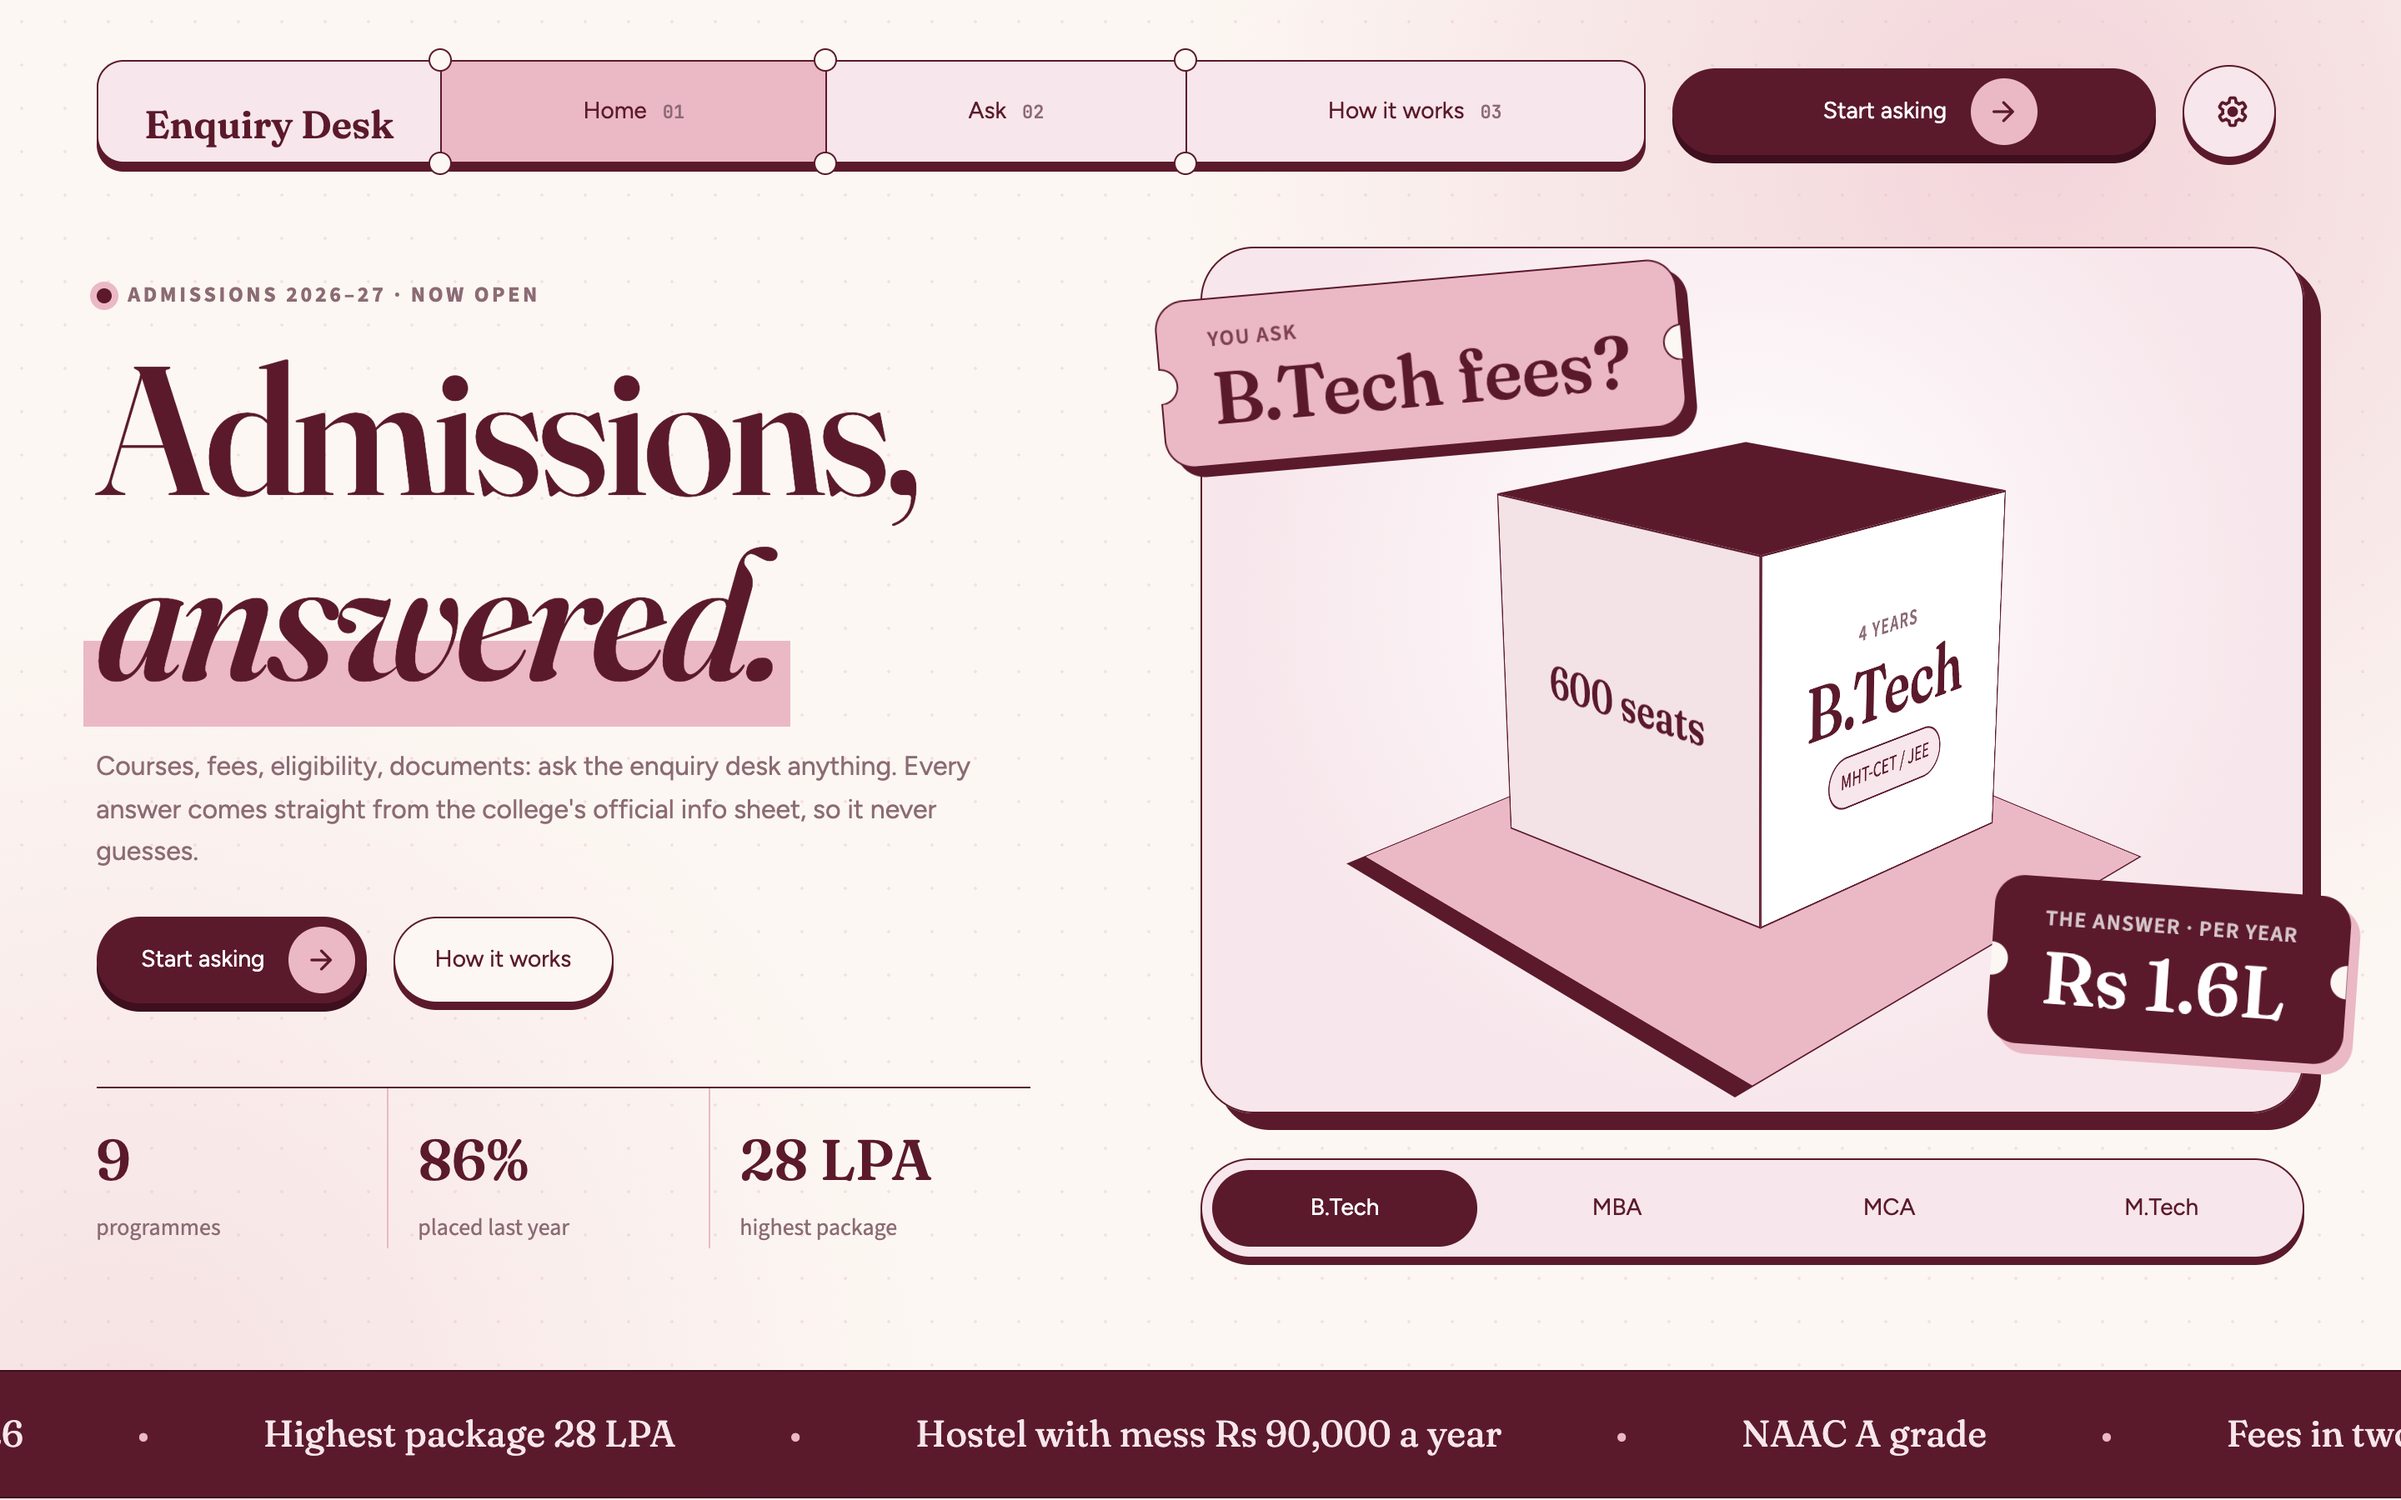
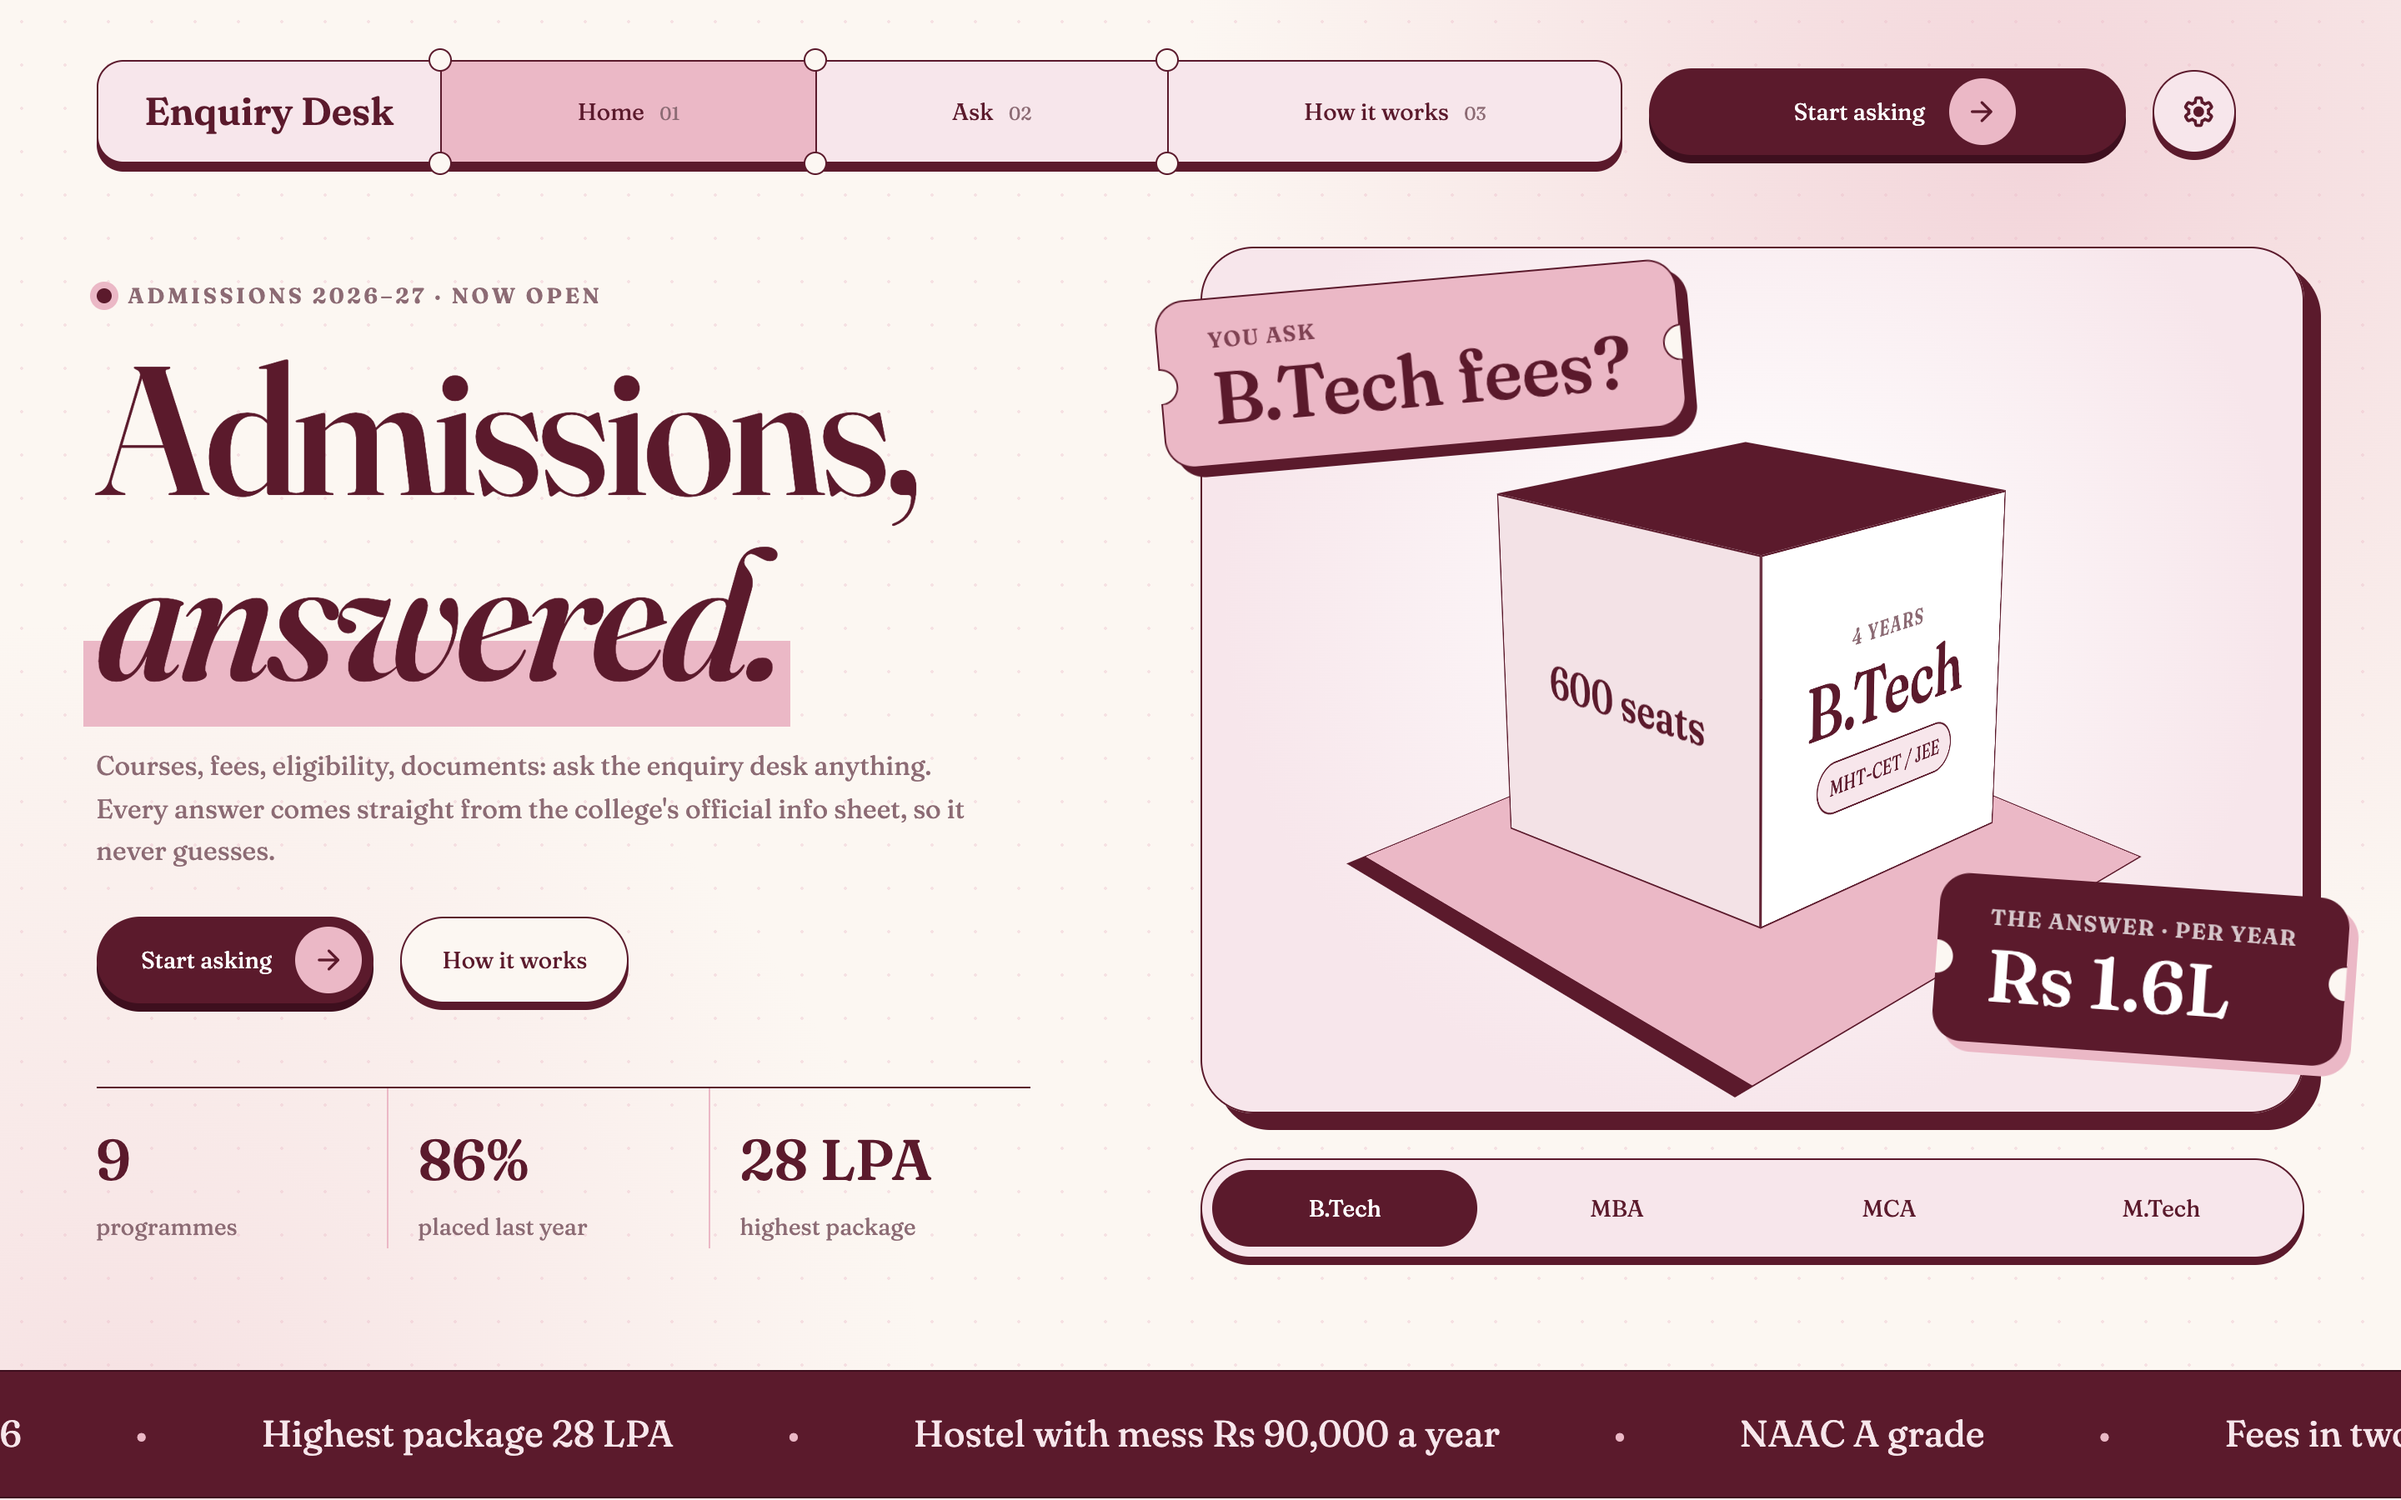
Works on phones and tablets; one serif font everywhere

diff --git a/style.css b/style.css
@@ -1,7 +1,7 @@
 /* College Enquiry Chatbot - page styling.
    Theme: dark wine + soft pink on a warm cream page, using the full browser width. */
 
-@import url('https://fonts.googleapis.com/css2?family=Fraunces:ital,opsz,wght@0,9..144,400..650;1,9..144,400..650&family=Figtree:wght@400;500;600;700&family=JetBrains+Mono:wght@500&display=swap');
+@import url('https://fonts.googleapis.com/css2?family=Fraunces:ital,opsz,wght@0,9..144,400..650;1,9..144,400..650&display=swap');
 
 /* ---------- 1. Colours, fonts, page ---------- */
 :root {
@@ -12,8 +12,8 @@
   --cream: #FCF7F2;
   --grey: #8C6B74;
   --serif: 'Fraunces', Georgia, serif;
-  --sans: 'Figtree', sans-serif;
-  --mono: 'JetBrains Mono', monospace;
+  --sans: 'Fraunces', Georgia, serif;   /* one font everywhere, the same as "Enquiry Desk" */
+  --mono: 'Fraunces', Georgia, serif;
 }
 
 .stApp {
@@ -26,7 +26,7 @@
 /* faint dotted grid behind everything */
 .stApp::before { content: ""; position: fixed; inset: 0; pointer-events: none; opacity: .35;
   background-image: radial-gradient(var(--pink) 1px, transparent 1px); background-size: 26px 26px; }
-.stApp p, .stApp li, .stApp button { font-family: var(--sans); }
+.stApp p, .stApp li, .stApp button, .stApp textarea, .stApp label, .stApp code { font-family: var(--sans) !important; }
 .block-container { max-width: none; padding: 20px 4vw 120px; }
 [data-testid="stHeader"], [data-testid="stToolbar"] { display: none; }
 h1, h2, h3 { font-family: var(--serif) !important; color: var(--wine); }
@@ -48,7 +48,11 @@ h1, h2, h3 { font-family: var(--serif) !important; color: var(--wine); }
   background: var(--cream); border: 1.5px solid var(--wine); z-index: 2; }
 .st-key-navbar > [data-testid="stElementContainer"]::before { top: -8px; }
 .st-key-navbar > [data-testid="stElementContainer"]::after { bottom: -8px; }
-.brand { font-family: var(--serif); font-size: 23px; font-weight: 600; padding: 0 28px; white-space: nowrap; }
+.brand { font-family: var(--serif); font-size: 23px; font-weight: 600; padding: 0 28px; white-space: nowrap; line-height: 60px; }
+/* centre every cell of the bar vertically so the brand lines up with the page names */
+.st-key-navbar > [data-testid="stElementContainer"] { display: flex; align-items: center; }
+.st-key-navbar [data-testid="stMarkdown"], .st-key-navbar [data-testid="stMarkdownContainer"],
+.st-key-navbar [data-testid="stMarkdownContainer"] > * { margin: 0 !important; }
 .st-key-navbar .stButton > button { min-height: 60px; border-radius: 0; border: none; box-shadow: none;
   background: transparent; color: var(--wine); font-size: 15.5px; font-weight: 600; padding: 0 24px; }
 .st-key-navbar .stButton > button:hover { background: rgba(235, 184, 198, .45); transform: none; box-shadow: none; }
@@ -84,7 +88,7 @@ h1, h2, h3 { font-family: var(--serif) !important; color: var(--wine); }
 
 /* gear: round button, no dropdown arrow */
 [data-testid="stPopover"] { display: flex; justify-content: flex-end; }
-[data-testid="stPopoverButton"] { width: 56px; height: 56px; padding: 0; border-radius: 50%; border: 1.5px solid var(--wine);
+[data-testid="stPopoverButton"] { width: 50px; height: 50px; padding: 0; border-radius: 50%; border: 1.5px solid var(--wine);
   background: var(--pink-soft); color: var(--wine); box-shadow: 0 4px 0 var(--wine); transition: transform .3s; }
 [data-testid="stPopoverButton"]:hover { transform: rotate(45deg); border-color: var(--wine); color: var(--wine); }
 [data-testid="stPopoverButton"] > div > div[aria-hidden="true"] { display: none; }
@@ -197,13 +201,84 @@ h1, h2, h3 { font-family: var(--serif) !important; color: var(--wine); }
 /* ---------- 9. Animation and small screens ---------- */
 @keyframes rise { from { opacity: 0; transform: translateY(14px); } to { opacity: 1; transform: none; } }
 
+/* tablets */
 @media (max-width: 900px) {
   .steps { grid-template-columns: 1fr; gap: 22px; }
   .steps::before { display: none; }
-  .band { flex-direction: column; align-items: flex-start; }
-  .stage { height: 440px; }
-  .tilt-left { left: 8px; } .tilt-right { right: 8px; }
+  .steps .step { transform: none !important; }
+  .band { flex-direction: column; align-items: flex-start; gap: 16px; }
 }
+
+/* phones and tablets: one column, stacked layout */
+@media (max-width: 1000px) {
+  /* stack Streamlit columns (only rows made by st.columns, not button rows) */
+  [data-testid="stHorizontalBlock"]:has(> [data-testid="stColumn"]) { flex-direction: column; }
+  [data-testid="stHorizontalBlock"]:has(> [data-testid="stColumn"]) > [data-testid="stColumn"] { width: 100% !important; flex: 1 1 auto !important; }
+  .block-container { padding: 14px 16px 110px; position: relative; }
+  .ticker, .band { margin-left: -16px; margin-right: -16px; }
+  .band { padding: 32px 16px; }
+
+  /* top bar: brand on its own row (gear sits in its corner), the 3 pages in one row below */
+  [data-testid="stHorizontalBlock"]:has(.st-key-navbar) { margin-bottom: 22px; }
+  .st-key-navbar { flex-wrap: wrap; }
+  .st-key-navbar > [data-testid="stElementContainer"] { flex: 1 1 30% !important; min-width: 0; width: auto !important; }
+  .st-key-navbar > [data-testid="stElementContainer"]:first-child { flex: 1 1 100% !important; border-bottom: 1.5px solid var(--wine); }
+  .st-key-navbar > [data-testid="stElementContainer"]:nth-child(2) { border-left: none; }
+  .st-key-navbar > [data-testid="stElementContainer"]:nth-child(2)::before,
+  .st-key-navbar > [data-testid="stElementContainer"]:nth-child(2)::after { display: none; }
+  .st-key-navbar > [data-testid="stElementContainer"]::before { top: -8px; }
+  .brand { padding: 12px 18px; font-size: 21px; line-height: 1.3; }
+  .st-key-navbar .stButton > button { min-height: 50px; padding: 0 6px !important; font-size: 15px; }
+  .st-key-navbar code { display: none; }
+  .st-key-cta_top { display: none; }
+  [data-testid="stHorizontalBlock"]:has(> [data-testid="stColumn"]) > [data-testid="stColumn"]:has([data-testid="stPopover"]) { position: absolute; top: 31px; right: 30px; left: auto !important; width: 42px !important; min-width: 0 !important; z-index: 5; }
+  [data-testid="stPopoverButton"] { width: 42px; height: 42px; box-shadow: 0 3px 0 var(--wine); }
+
+  /* home */
+  .headline { font-size: 58px !important; }
+  .lead { font-size: 17px; }
+  .facts b { font-size: 26px; }
+  .facts span { font-size: 12.5px; }
+  .facts div { padding-left: 12px; }
+  .stage { height: 390px; box-shadow: 6px 6px 0 var(--wine); border-radius: 24px; margin-top: 10px; overflow: hidden; }
+  .block-container:has(.ticker) { padding-bottom: 0; }
+  .scene { transform: scale(.72); }
+  .tilt-left { left: 14px; top: 16px; }
+  .tilt-right { right: 14px; bottom: 18px; }
+  .stage .ticket { padding: 10px 20px 12px; }
+  .stage .ticket b { font-size: 28px; }
+  .stage .ticket small { font-size: 11px; }
+  [data-testid="stButtonGroup"] button { font-size: 14px; min-height: 42px; padding: 0 4px; }
+  .track span { font-size: 18px; padding: 16px 24px; }
+
+  [data-testid="stHorizontalBlock"] { row-gap: 14px !important; }
+
+  /* ask: topics become a row of chips you can swipe sideways */
+  [data-testid="stColumn"]:has(.ticket.small) > [data-testid="stVerticalBlock"] {
+    flex-direction: row; flex-wrap: nowrap; overflow-x: auto; gap: 8px; padding: 2px 2px 10px; scrollbar-width: none; }
+  [data-testid="stColumn"]:has(.ticket.small) [data-testid="stElementContainer"] { width: auto !important; flex: none; }
+  [data-testid="stColumn"]:has(.ticket.small) [data-testid="stElementContainer"]:has(.eyebrow),
+  [data-testid="stColumn"]:has(.ticket.small) [data-testid="stElementContainer"]:has(.ticket) { display: none; }
+  [data-testid="stColumn"]:has(.ticket.small) .stButton > button { min-height: 42px; white-space: nowrap; padding: 0 16px; }
+  .title { font-size: 34px !important; }
+  .empty { padding: 36px 16px; }
+  [data-testid="stChatMessage"] { padding: 12px; }
+  [data-testid="stBottomBlockContainer"] { padding: 0 16px 14px; }
+
+  /* how it works */
+  .title.big { font-size: 52px !important; margin-bottom: 26px !important; }
+  .step { padding: 18px 24px 20px; }
+  .step b { font-size: 26px; }
+}
+/* tablets only: more room, so a bigger stage */
+@media (min-width: 641px) and (max-width: 1000px) {
+  .block-container { padding-left: 32px; padding-right: 32px; }
+  .ticker, .band { margin-left: -32px; margin-right: -32px; }
+  .stage { height: 480px; }
+  .scene { transform: scale(.95); }
+  .headline { font-size: 84px !important; }
+}
+
 @media (prefers-reduced-motion: reduce) { * { animation: none !important; } }
 
 /* Ask page: topic buttons read as a left-aligned list */
@@ -211,3 +286,6 @@ h1, h2, h3 { font-family: var(--serif) !important; color: var(--wine); }
 [data-testid="stColumn"]:has(.ticket.small) .stButton > button > div { justify-content: flex-start; width: 100%; }
 /* let the wrapper around the arrow cap grow to the cap size */
 .stButton > button[kind="primary"] span:has(> [data-testid="stIconMaterial"]) { width: auto; height: auto; display: flex; }
+
+/* small uppercase labels use the same serif too */
+.eyebrow, .ticket small, .face small, .face em, .band small, .facts span, .stApp small, .stApp div { font-family: var(--serif); }

diff --git a/app.py b/app.py
@@ -118,7 +118,7 @@ def go_to(page):
 
 def show_navbar():
     """Top bar: brand + numbered page buttons, a 'Start asking' button and the gear. Returns the model."""
-    bar, cta, gear = st.columns([5, 1.6, 0.45], vertical_alignment="center")
+    bar, cta, gear = st.columns([5, 1.6, 0.55], vertical_alignment="center")
 
     # The pink segmented bar (styled in style.css as .st-key-navbar)
     with bar.container(key="navbar", horizontal=True, gap=None, vertical_alignment="center"):
@@ -250,7 +250,7 @@ def show_ask_page(model):
         if not st.session_state.messages:
             st.markdown(
                 '<div class="empty"><div class="ticket dark"><small>start here</small><b>Ask away.</b></div>'
-                "<p>Pick a topic on the left or type your own question below.</p></div>",
+                "<p>Pick a popular topic or type your own question below.</p></div>",
                 unsafe_allow_html=True,
             )
 
